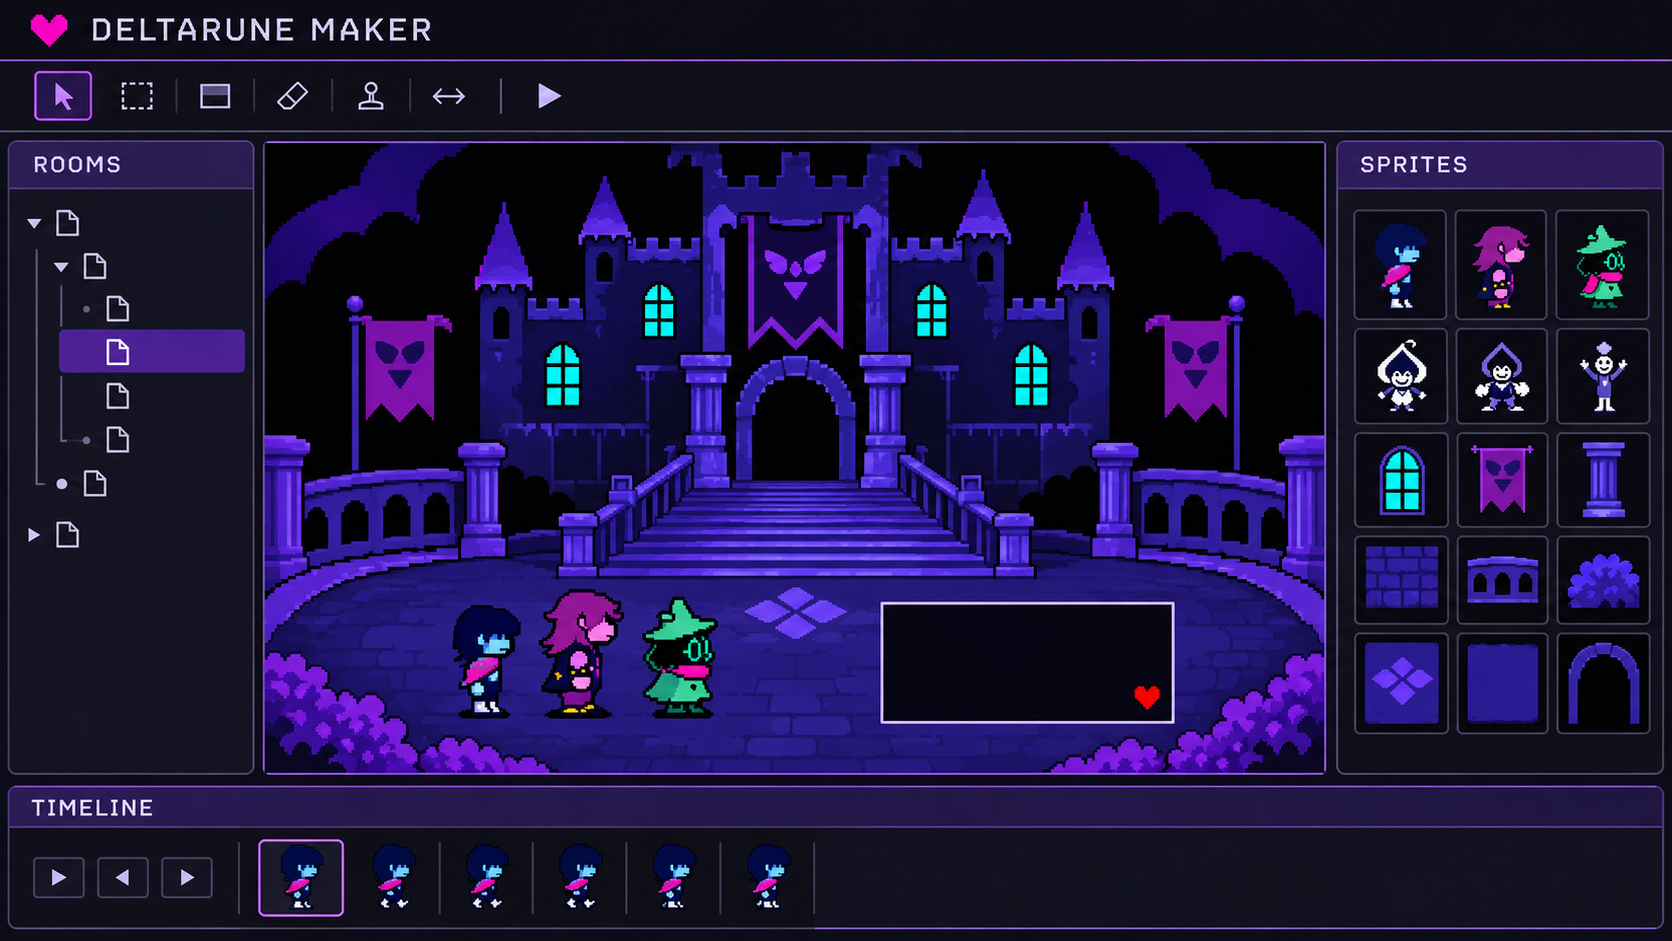
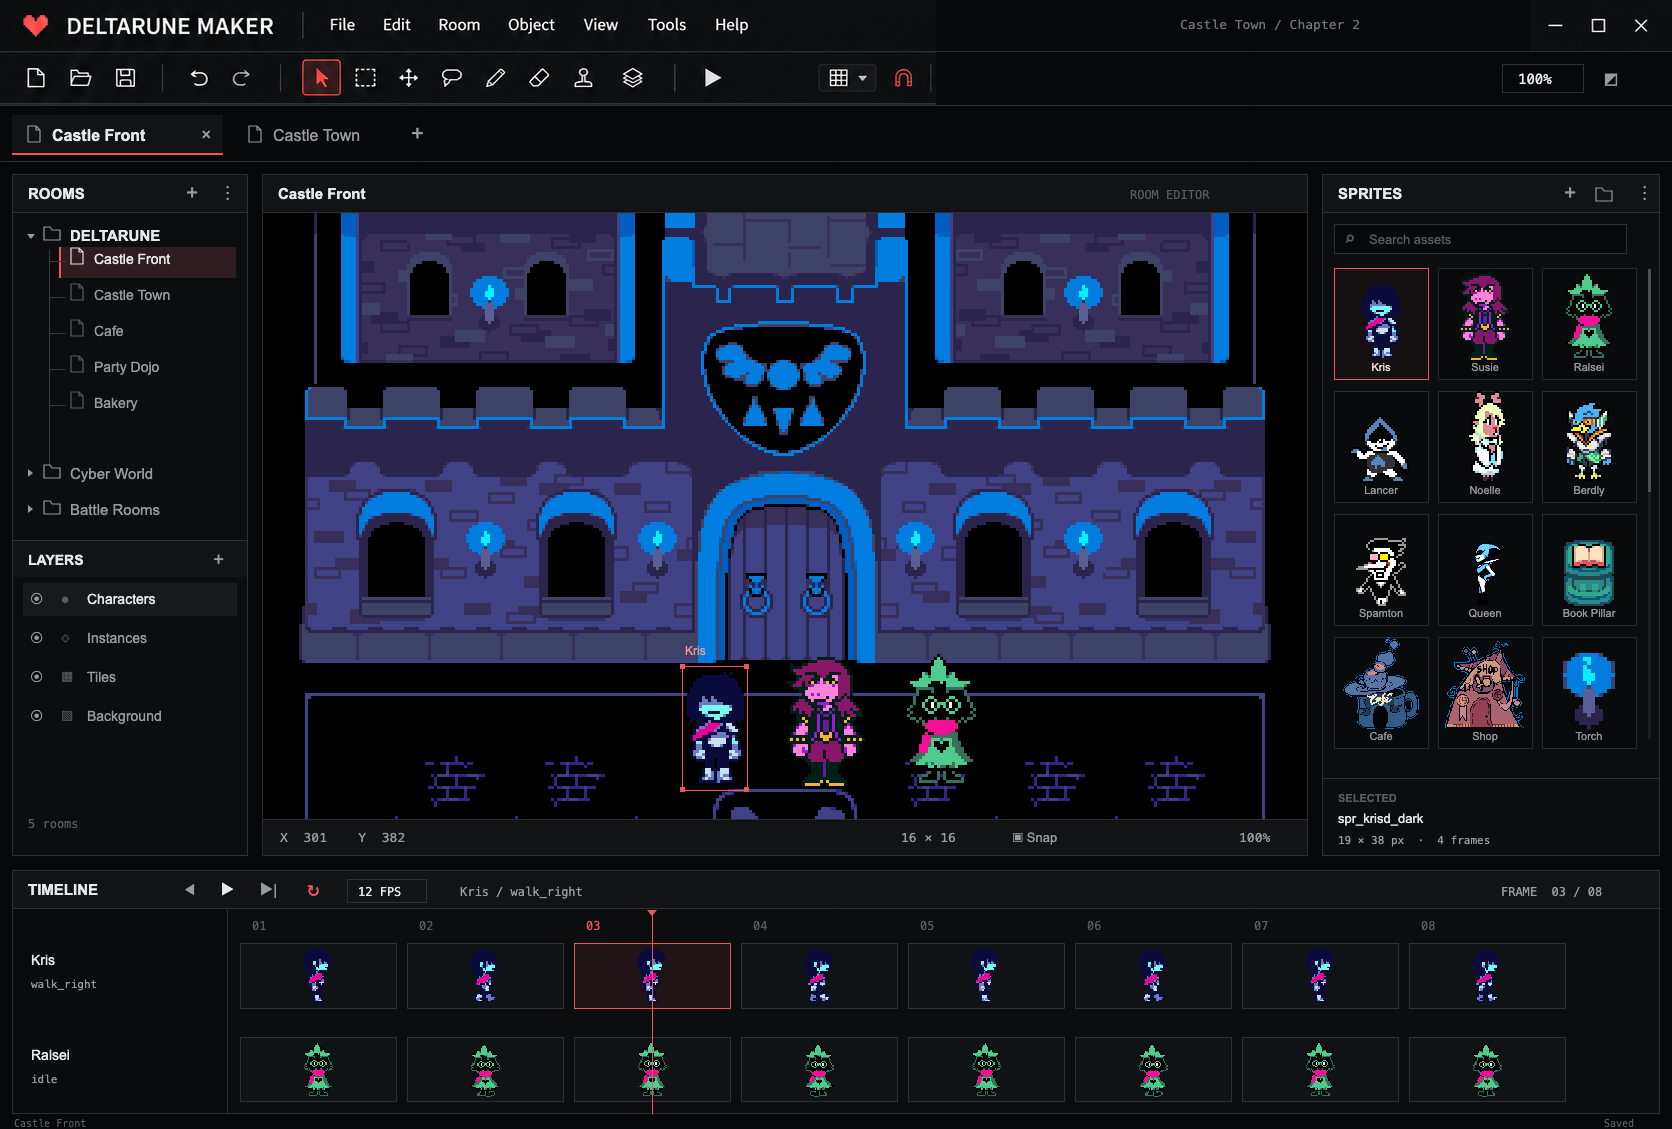
Use native DELTARUNE art in the studio concept

diff --git a/README.md b/README.md
@@ -2,9 +2,9 @@
 
 A fan creation studio for DELTARUNE game experiments and short films.
 
-![An imagined DELTARUNE-inspired desktop game editor](docs/studio-concept.png)
+![A black desktop room editor with Castle Town, a sprite grid, and an animation timeline](docs/studio-concept.png)
 
-*Concept artwork for the studio.*
+*Studio concept using original DELTARUNE sprites and Castle Town tiles from a [pinned game asset extraction](https://github.com/TeamBlossomDevs/DeltaruneDecomp_beta/tree/154f9a97b8f18fa6974e917c4c4e774bde6b7eba).*
 
 This repository begins with the studio's identity and visual direction. Each project starts with a small gameplay idea, a cast of characters, and a story worth playing through.
 
